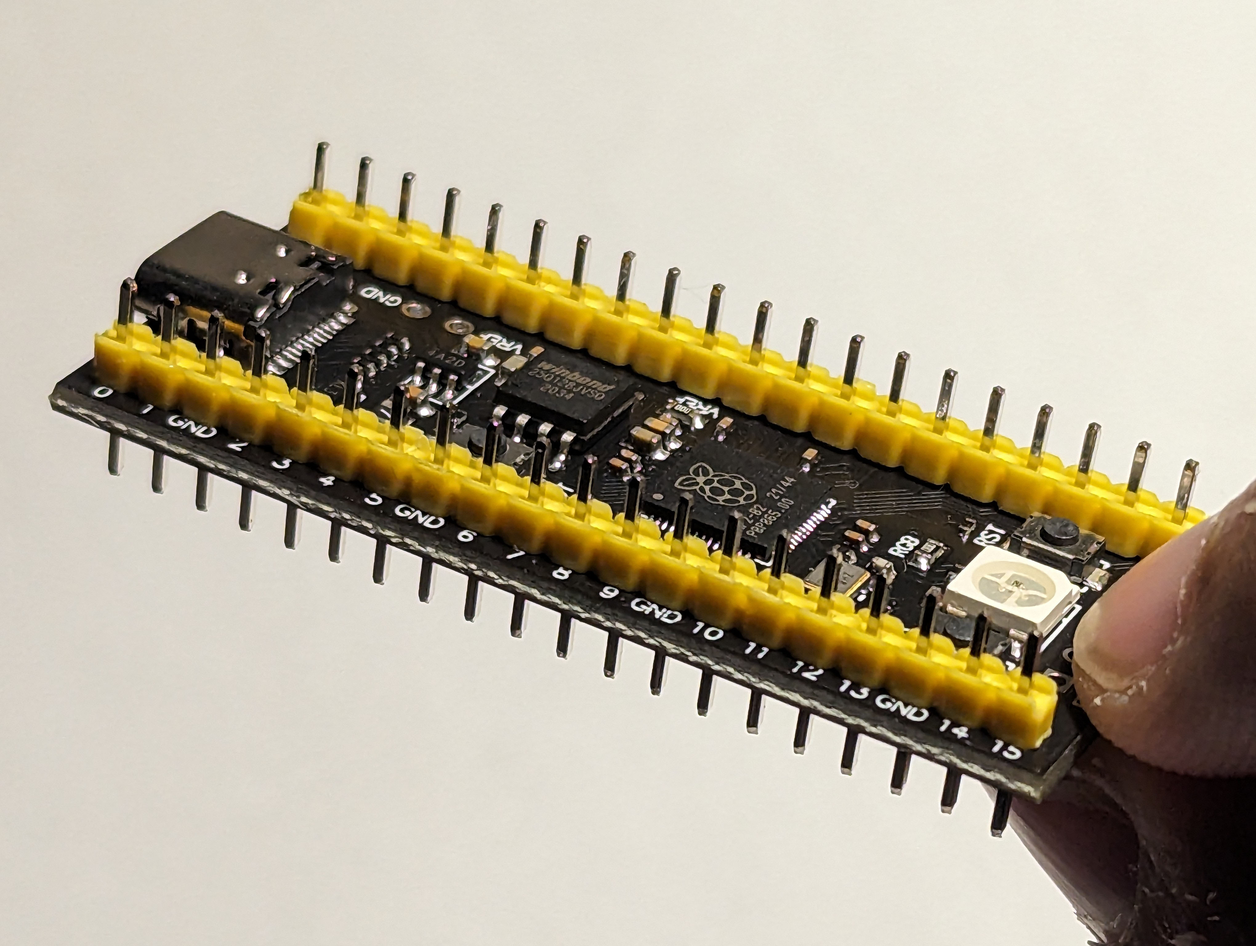
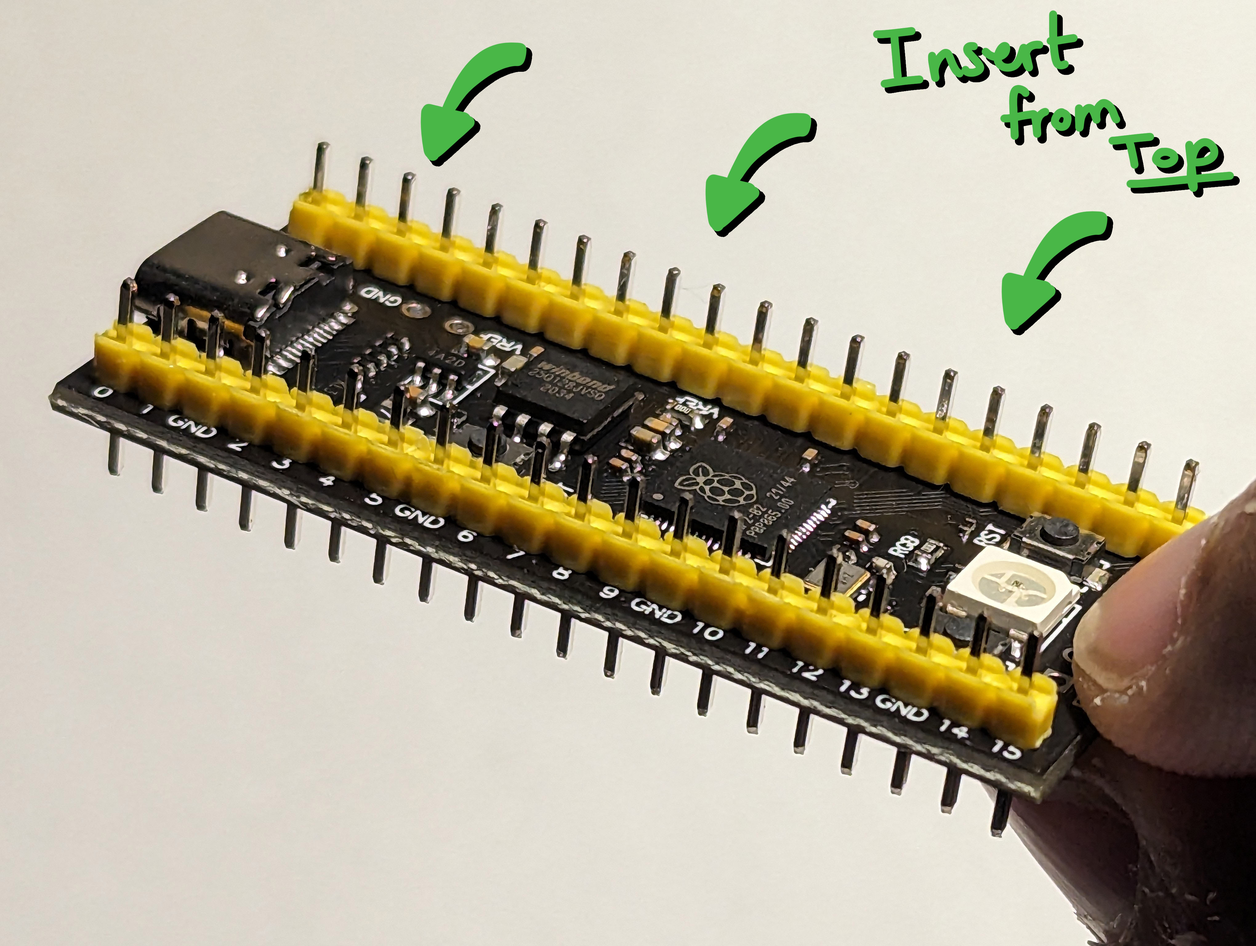
Better assembly photos.

diff --git a/bit_m0116/README.md b/bit_m0116/README.md
@@ -106,7 +106,8 @@ _Be prepared for extensive use of your soldering iron and wire-cutter!_
 	- This will minimize the height final of your RP2040 controller and avoid clearance issues.
 	- **Note 1:** If you're using the [Bent Pin Headers](https://www.aliexpress.com/item/4000660389713.html) mentioned previously, you will **not** need to solder it in.
 	- **Note 2:** If you're using the [Straight Pin Headers](https://raw.githubusercontent.com/Bitteneite/bitten_restoboards/main/photos/assemb-straight-header.jpg) included with your Raspberry Pi Pico, solder it in, but **keep the solder to a minimum!** (The protruding legs need to be as thin as possible!)
-<img src='https://raw.githubusercontent.com/Bitteneite/bitten_restoboards/main/photos/placeholder.png ' width='500'>
+<img src='https://raw.githubusercontent.com/Bitteneite/bitten_restoboards/main/photos/assemb-2.jpg ' width='500'>
+<img src='https://raw.githubusercontent.com/Bitteneite/bitten_restoboards/main/photos/assemb-2a.gif ' width='500'>
 
 3. Solder your RP2040 controller onto the PCB:
 	- If done correctly, the RP2040 controller should "seat" in all the way.
